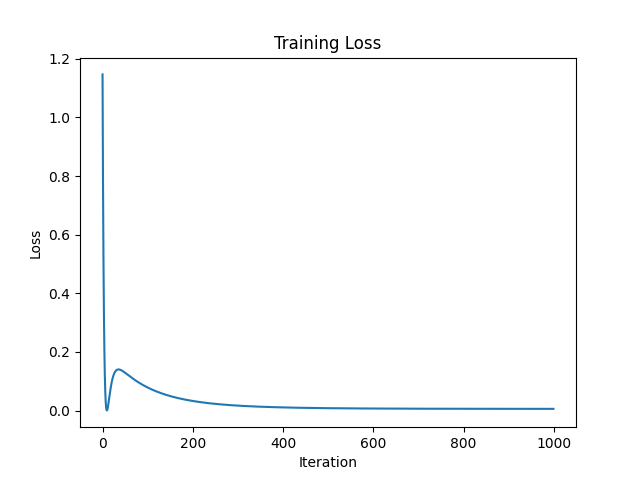
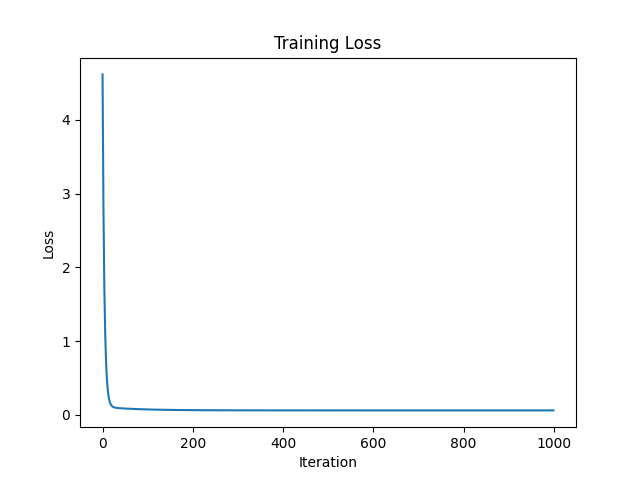
Change loss reporting to average loss reporting in torch version & fix model save path

diff --git a/src/torch/train.py b/src/torch/train.py
@@ -1,6 +1,5 @@
 import torch
 import torch.nn as nn
-from torch import functional as F
 import random
 from data import generate_data
 import matplotlib.pyplot as plt
@@ -36,25 +35,28 @@ model.train()
 if __name__ == '__main__':
     losses = [] # We use this to append losses for later use and analyzing... 
     for epoch in range(num_epochs):
+        total_epoch_loss = 0
         for i in range(len(x)): # We iterate over our data set:
             input = x[i].unsqueeze(0)
             target = y[i].unsqueeze(0)
             output = model(input)
             # We compute the loss...
             loss = criterion(output, target)
-            optimizer.zero_grad() # We need to zero the gradients before computing the gradients so that the gradients are not accumulated from previous iterations.
+            
+            optimizer.zero_grad() # We need to zero the gradients before computing the gradients so that the gradients are not accumulated from previous iterations. (This is a PyTorch thing)
             loss.backward()
             optimizer.step() # We update the parameters of the model using the gradients computed in the backward pass.
         
-        losses.append(loss.item())
+            total_epoch_loss += loss.item()
+            
+        # We get the average loss if needed:
+        average_epoch_loss = total_epoch_loss/len(x) 
+        losses.append(average_epoch_loss)
+        print("Epoch: {}/{} Loss: {:.5f}".format(epoch+1, num_epochs, average_epoch_loss))
 
-        # # We get the average loss if needed:
-        # average_loss = sum(losses)/len(x) 
-        print("Epoch: {}/{} Loss: {:.5f}".format(epoch+1, num_epochs, loss.item()))
-    
     model_save_path = os.path.join(current_script_path, '../../models/model.pth')
     # Let's save the model:
-    torch.save(model.state_dict(), 'models/model.pth')
+    torch.save(model.state_dict(), model_save_path)
     
     print("Training complete!")
     
